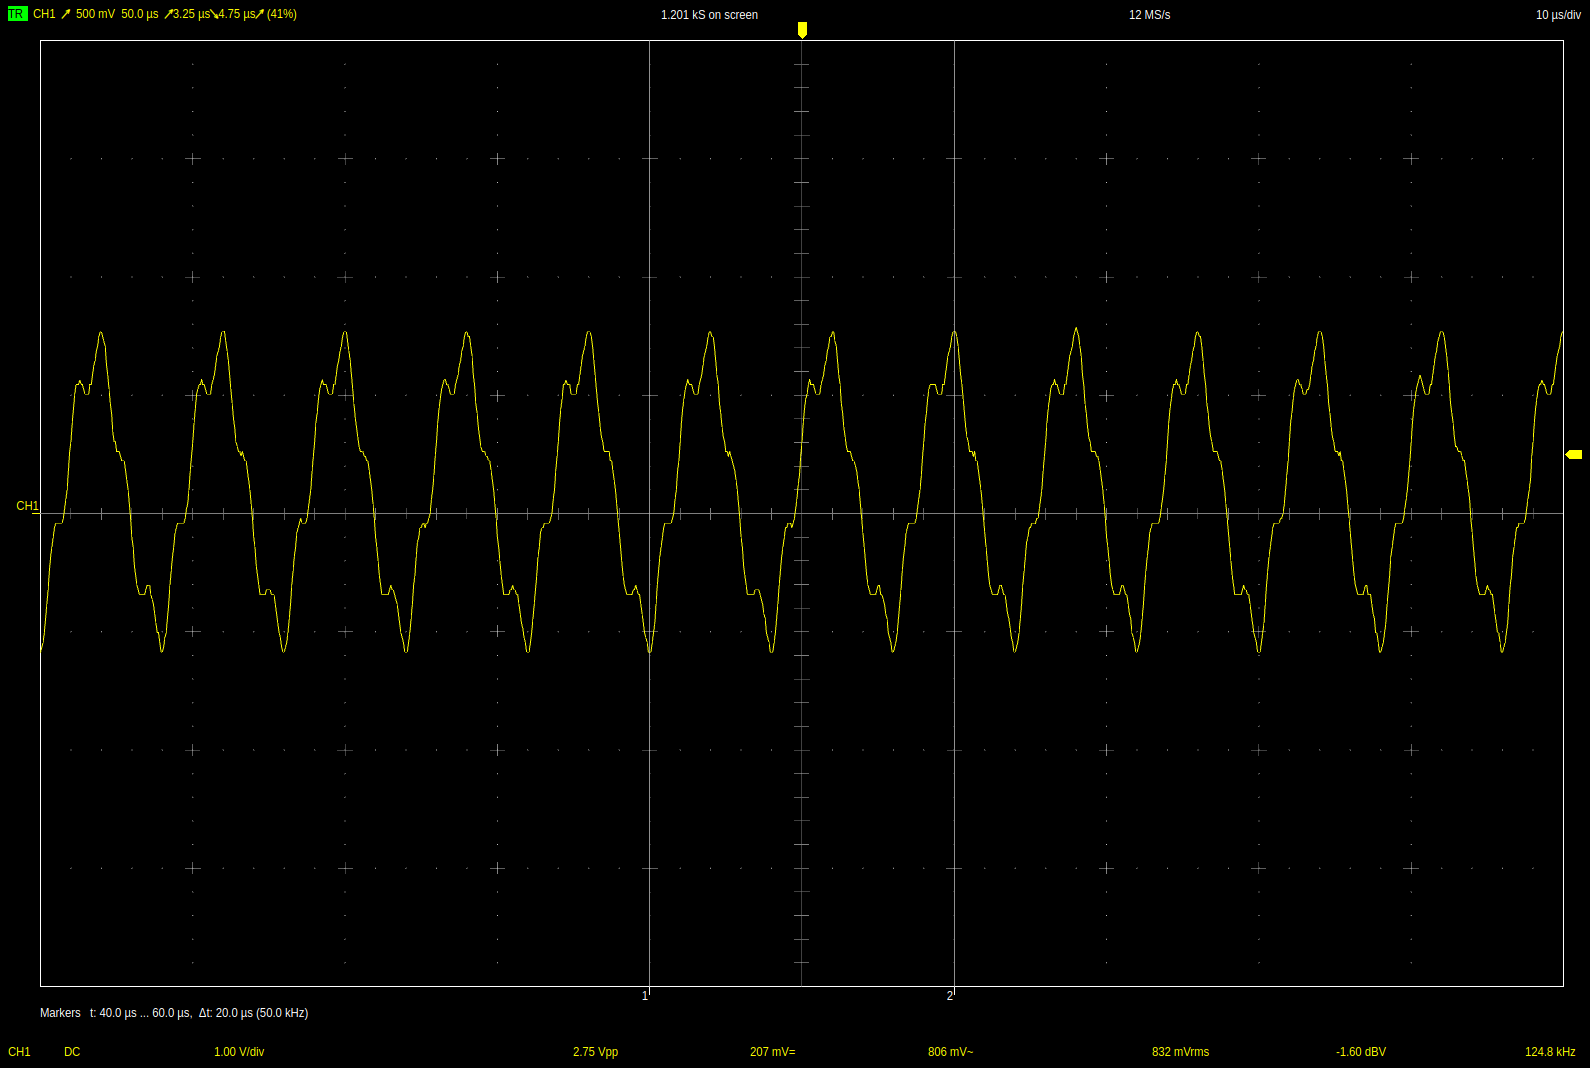
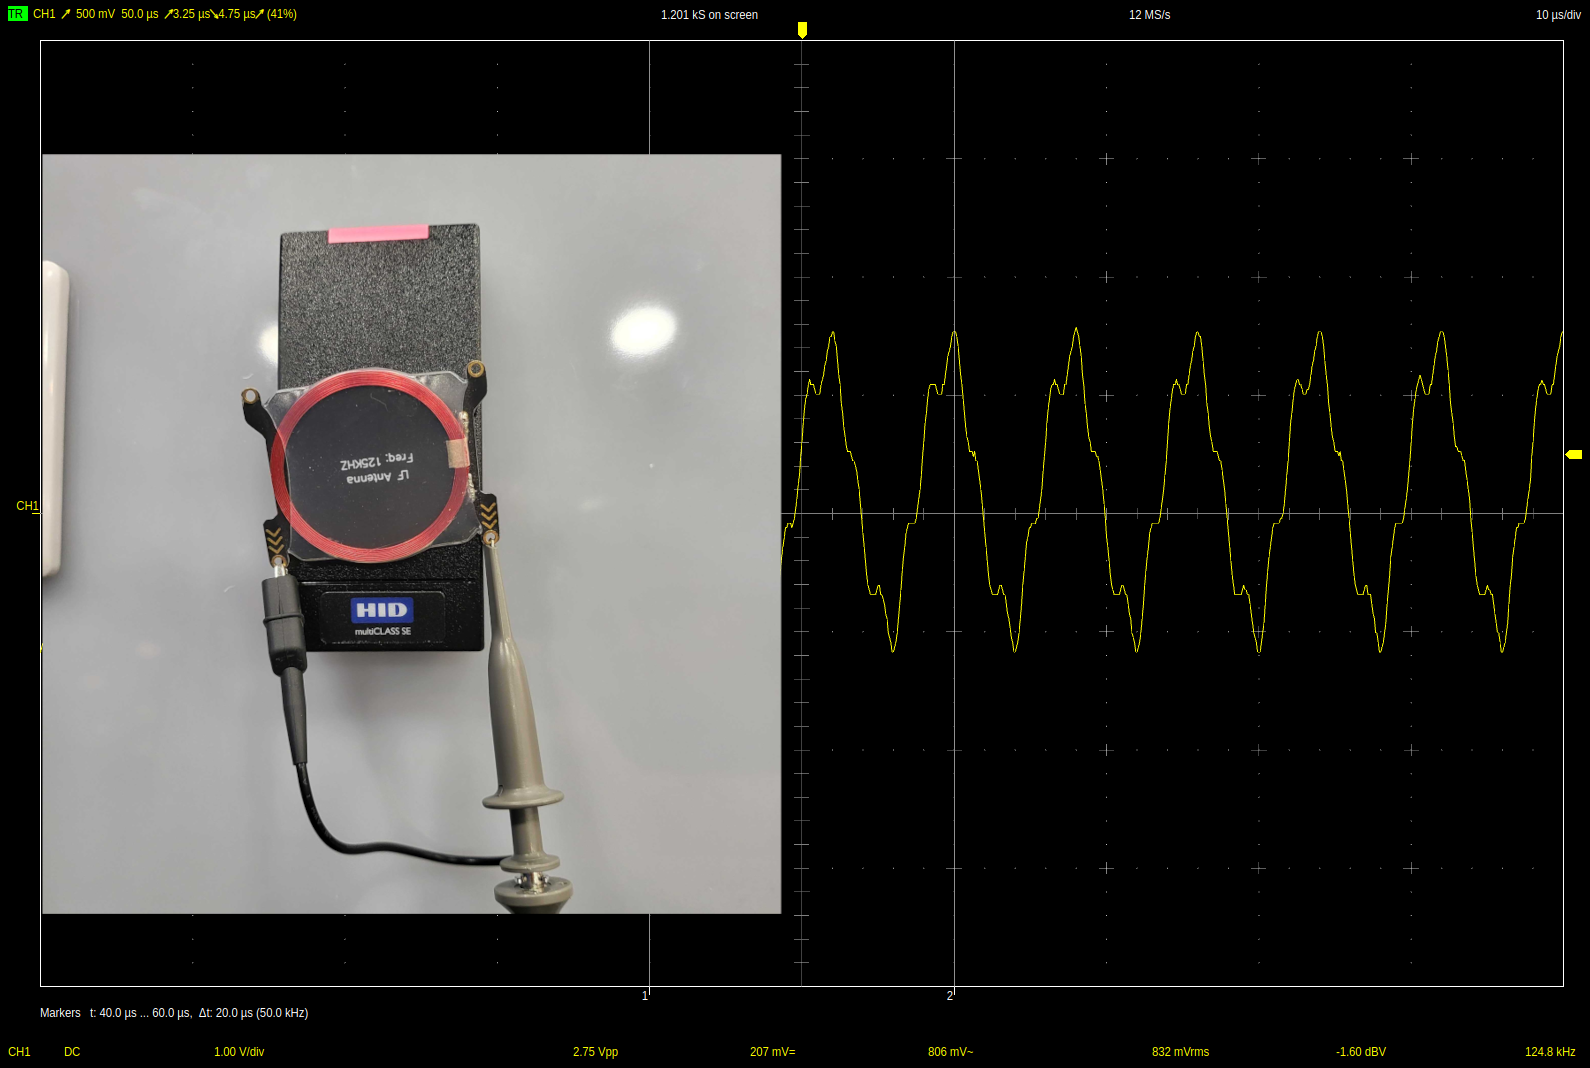
Photos

diff --git a/README.md b/README.md
@@ -92,9 +92,7 @@ Out of scope:
 
 ## Access control system
 
-```
-Card -> Reader -> Controller -> Door
-```
+![](images/architecture.png)
 
 ## Card (ass grab tech)
 
@@ -135,6 +133,10 @@ How is this used?
    * Antenna length depends on wavelength (length light travels during one oscilation)
 
    * Lower frequency, bigger antenna
+
+### Powering card showcase
+
+![](images/scope_screenshot.png)
 
 ### Command modulation
 
@@ -292,7 +294,13 @@ Output signal:
 
 ### Wiegand
 
+![](images/logic_photo.jpg)
 
+![](images/logic_screenshot.png)
+
+#### Wiegand to ID
+
+![](images/logic_decoded_screenshot.png)
 
 ## Attacks
 
